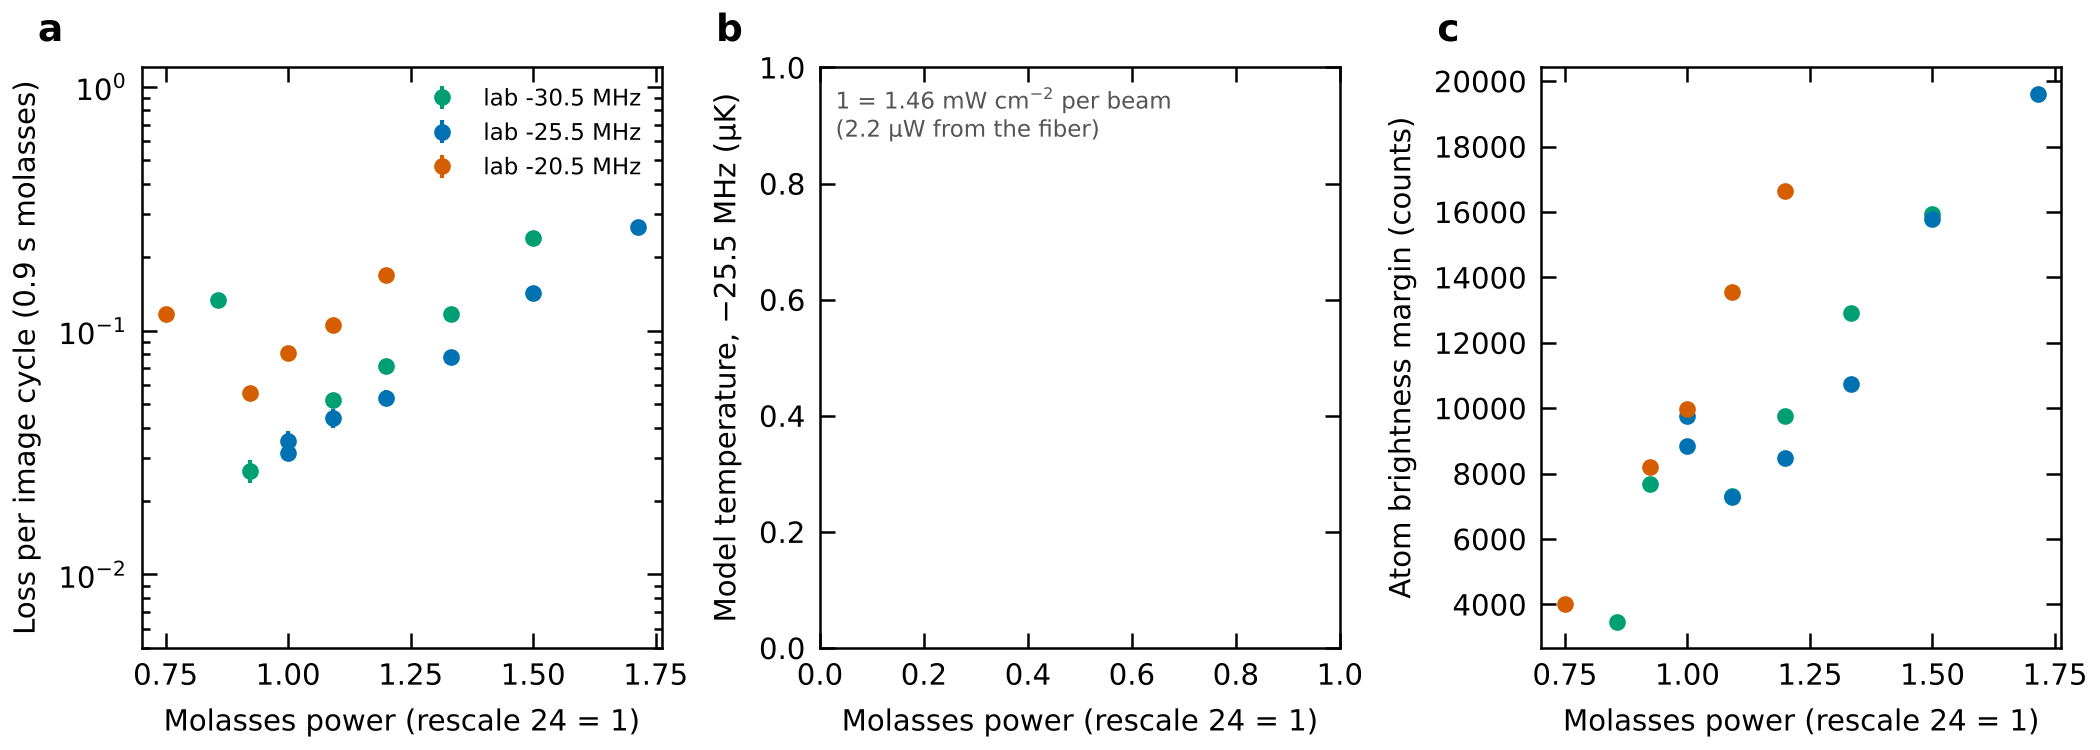
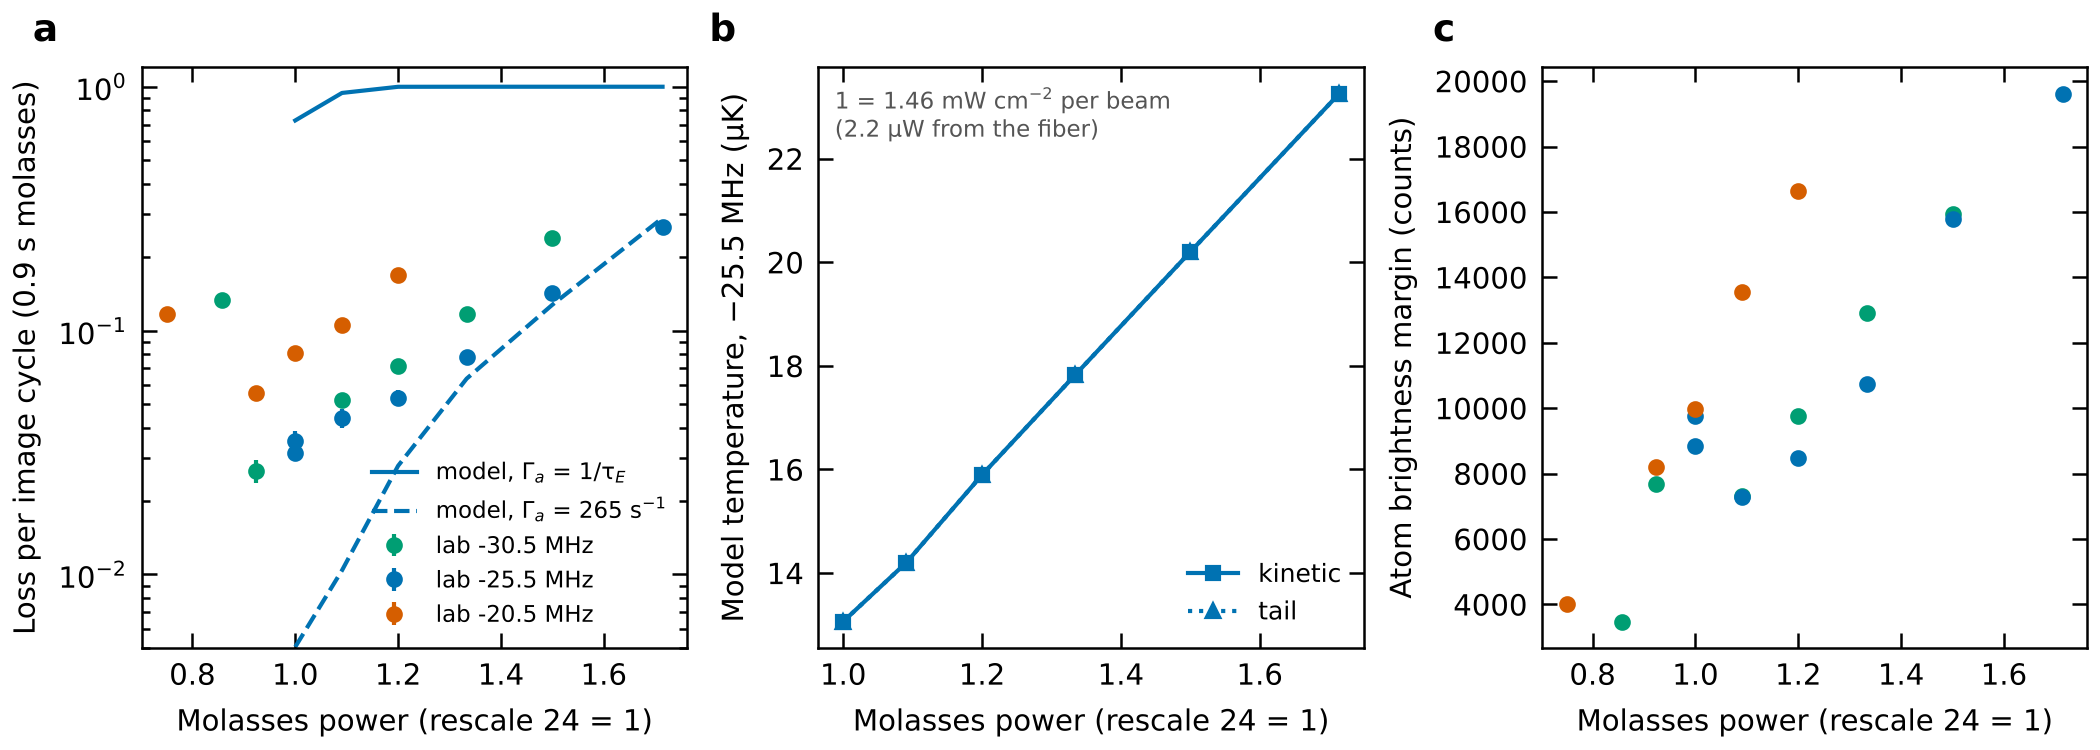
Compare the molasses model with the 2026-10-26 power scans; findings
Model at -25.5 MHz, rescale 14-24 (1.46 x 24/r mW/cm^2): T = 23.3 ... 13.1 uK.
Loss per 0.9 s: measured 26.6 ... 3.2 %; model with attempt 1/tau_E >= 73 %
(fails), with 265 s^-1 29 ... 0.5 % (+ ~3 % floor). Degenerate with a 0.7x
intensity scale; a sideband T at r = 24 distinguishes them (13 vs ~9 uK).
docs/findings.md: 2026-10-29 molasses section.

Claude-Session: https://claude.ai/code/session_01Tq2BHBDkQC5QHh46bwt5JD

diff --git a/docs/findings.md b/docs/findings.md
@@ -356,3 +356,19 @@ The loop-1 change gains 2.2–2.3 points at every dark-scatter level (y: 3.1 →
 **Thermal weights.** The Boltzmann weights now use the computed (anharmonic) energies of the initial state's levels instead of a harmonic ladder at f(n = 1) − f(n = 0). Nominal site, 1 µK, 13 levels: x Δn = +1 / carrier 0.19326 (harmonic weights 0.19315, +0.06 %), z Δn = +1 0.20107 (+0.17 %), z Δn = −1 0.11182 (+0.33 %).
 
 **Eigen-window.** The ±1.2 µm window around each well now grows (×1.25, up to 0.45 lattice spacings) until the highest level's |ψ|² at the window edge is below 10⁻⁸ of its peak. z pair at 0.3 depth with 60 levels: the window becomes 1.5 µm; with 1.2 µm level 59 was 4.8 kHz too high, now it agrees with a 2.18 µm window to 10⁻³ Hz. At the nominal settings the window stays 1.2 µm and nothing changes (`tests/test_sidebands.py`).
+
+## 2026-10-29 — Imaging / PGC molasses in the lattice
+
+**Model.** `lattice_sim.molasses`: semiclassical Monte Carlo wave-function model of the six-beam Brewster lin⊥lin molasses (Li 2009 geometry; azimuths assumed, `beams.AZIMUTHS_DEG`), Cs F = 4 with F′ = 5, 4, 3 adiabatically eliminated (W†W decomposition exact to 10⁻¹⁵), depumping to F = 3 and repumping, ground-state Zeeman term, the full lattice force and the excited-state lattice shift (β = −0.32). Valid for total saturation s ≤ 0.1 (`model.MAX_SATURATION`); the lab scan points at s = 0.11–0.14 are extrapolations. Lab detunings: crossover lock (−125.5 MHz) + AOM +75 … +105 MHz → −50.5 … −20.5 MHz (+100 MHz = −25.5 MHz, current).
+
+**Validation** (`tests/test_molasses.py`). 1D lin⊥lin J = 1/2 → 3/2 dragged atom at −10Γ: friction 0.94(5) and momentum diffusion 0.97 of Dalibard & Cohen-Tannoudji (1989); scattering rate within 2 %. Free-space 3D lin⊥lin at −10Γ: T = 4.8, 8.9, 18.1 µK at Ω²/(|δ|Γ) = 0.05, 0.1, 0.2, slope C = 0.35 in ħΓ/k_B (Salomon et al. 1990: 0.35). Step-size convergence in the lattice within statistics.
+
+**Zero field, full depth** (`data/molasses/intensity.jsonl`, `figures/molasses_intensity.png`). T_min = 3.0–3.3 µK from −51 to −20 MHz, 3.9 µK at −15 MHz, 4.4 µK at −10 MHz. The optimum intensity scales ≈ Δ²: 0.7, 0.5, 0.35, 0.2 mW/cm² per beam at −51, −40, −30, −20 MHz. Below the optimum the temperature rises because optical pumping becomes slow compared with the trap frequency. The scattering rate at the optimum rises only from 1.9 × 10⁵ to 2.8 × 10⁵ s⁻¹ between −51 and −20 MHz (free space: ∝ 1/|Δ| at fixed T, ×2.5). On the high-intensity branch, at equal temperature, −25.5 MHz gives ≈ 2× the photons of −50.5 MHz (5.9 µK: 8.4 × 10⁵ s⁻¹ at 0.7 mW/cm² against 4.3 × 10⁵ s⁻¹ at 1.4 mW/cm², 5.4 µK).
+
+**Site-to-site spread.** At and below the optimum intensity the energy tail is 1.5–4× the mean kinetic temperature (e.g. −51 MHz, 0.7 mW/cm²: 3.3 µK, tail 4.9–9.6 µK); the per-atom molasses phases sample different local polarizations. The LC phase ramps (2π / 33 ms, π / 30 ms; Wu App. B, Kumar 5.3.1) are slow compared with τ_E ≈ 0.1–0.3 ms, so hopping rates use the tail temperature (`tables.Tables.hop_rate`).
+
+**Partial depth** (`data/molasses/depth.jsonl`, `figures/molasses_depth.png`). T changes by < 1.6 µK between 0.1 and full depth at fixed (Δ, I). Hops counted directly in the Monte Carlo at 0.25 and 0.5 depth agree with the Arrhenius form (tail T, Γ_a = 1/τ_E) to a factor 1–4; Γ_a = 265 s⁻¹ (Li's fit) is 10–60× lower than the counts. −25.5 MHz, 1.4 mW/cm²: ≈ 200 s⁻¹ at 0.25 depth, ≈ 40 s⁻¹ at 0.5 depth.
+
+**Lab intensity.** Request 5 at rescale 24 gives 2.2 µW from the fiber, 0.40–0.50 µW per beam (Maarten, 2026-10-29); with Li's 140 µm waist 1.46 mW/cm² per beam (s = 0.083 at −25.5 MHz). The molasses calibration `OM-2014-9-3.txt` (rescaled 14 → 24 on 2026-10-27) predicts 4.4 µW for that request: the 2014 voltage curve over-states the power by 2× at 2.4 V. The PGC-field hold (`PGC_vapor_loading.dt4`, supertime-analysis) requests 0.6 (≈ 1.9 V, the threshold knee), nominally 0.12 of the imaging power; its true power is unknown until the curve is remeasured.
+
+**Comparison with the 2026-10-26 power scans** (`data/measured/molasses_hopping_20261026.csv`, `data/molasses/lab1026.jsonl`, `figures/molasses_lab_20261026.png`). Hopping sequence, 9 + 9 exposures of 100 ms (≈ 0.9 s of molasses per image cycle), full depth. Measured loss per cycle at +100 MHz: 26.6, 14.2, 7.8, 5.3, 4.4, 3.2–3.5 % at rescale 14 … 24; site-to-site moves 0.2–3.3 %. Model at −25.5 MHz with I = 1.46 × 24/r mW/cm²: T = 23.3, 20.2, 17.8, 15.9, 14.2, 13.1 µK. With Γ_a = 1/τ_E the predicted loss is ≥ 73 % at every point (failed); with Γ_a = 265 s⁻¹ it is 29, 12.8, 6.4, 2.8, 1.0, 0.5 %, i.e. the measured values above r ≈ 18 and below them by a ≈ 3 % floor. Since the hop rate is steep in T, the same data are also matched with Γ_a = 1/τ_E if the intensity at the atoms is ≈ 0.7 of the estimate (T ≈ 9 µK at r = 24); a sideband temperature at r = 24 and +100 MHz separates the two (13 µK against ≈ 9 µK).
